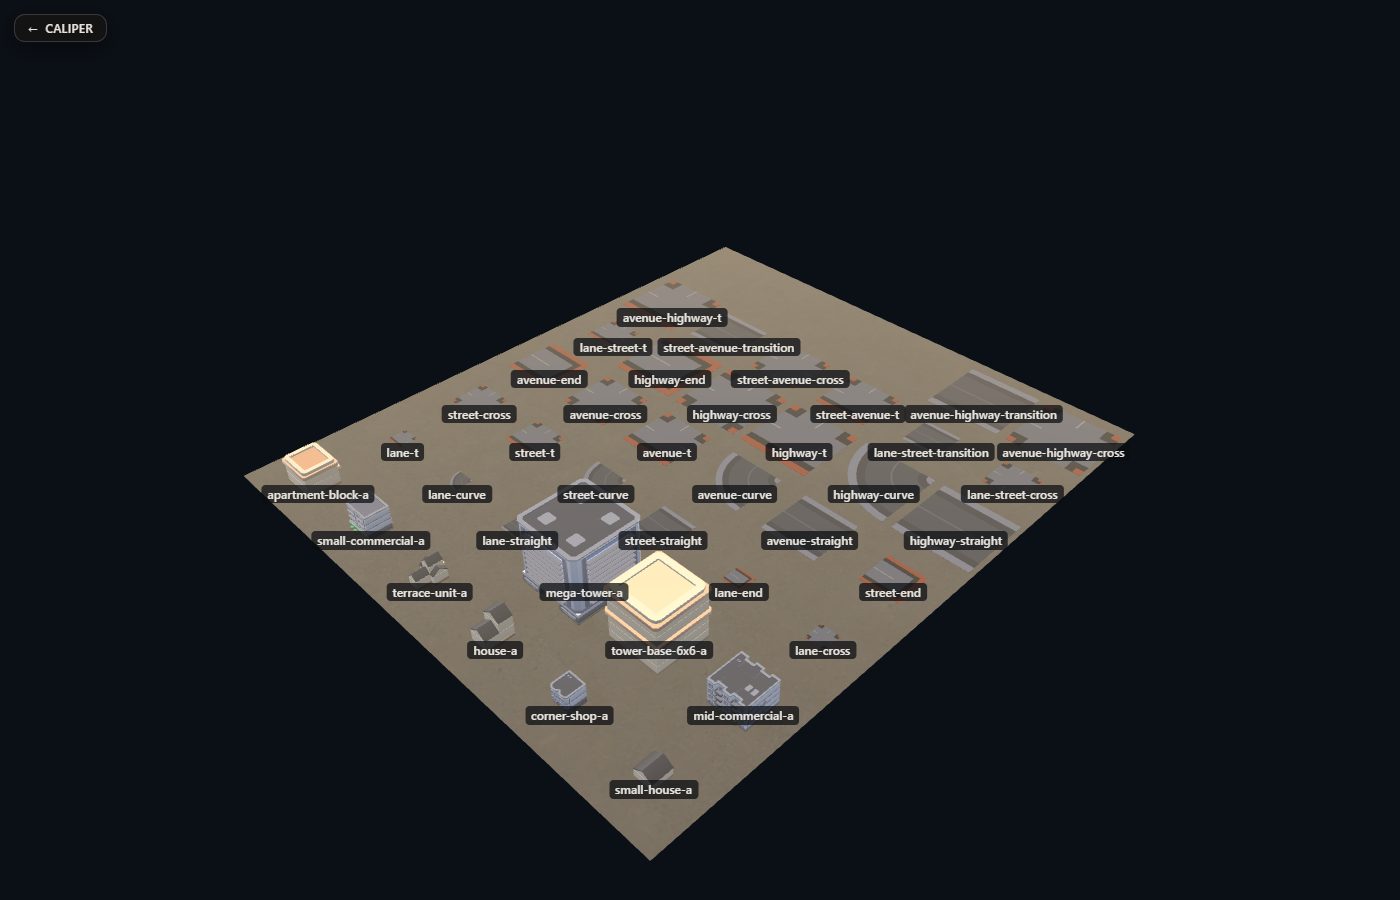
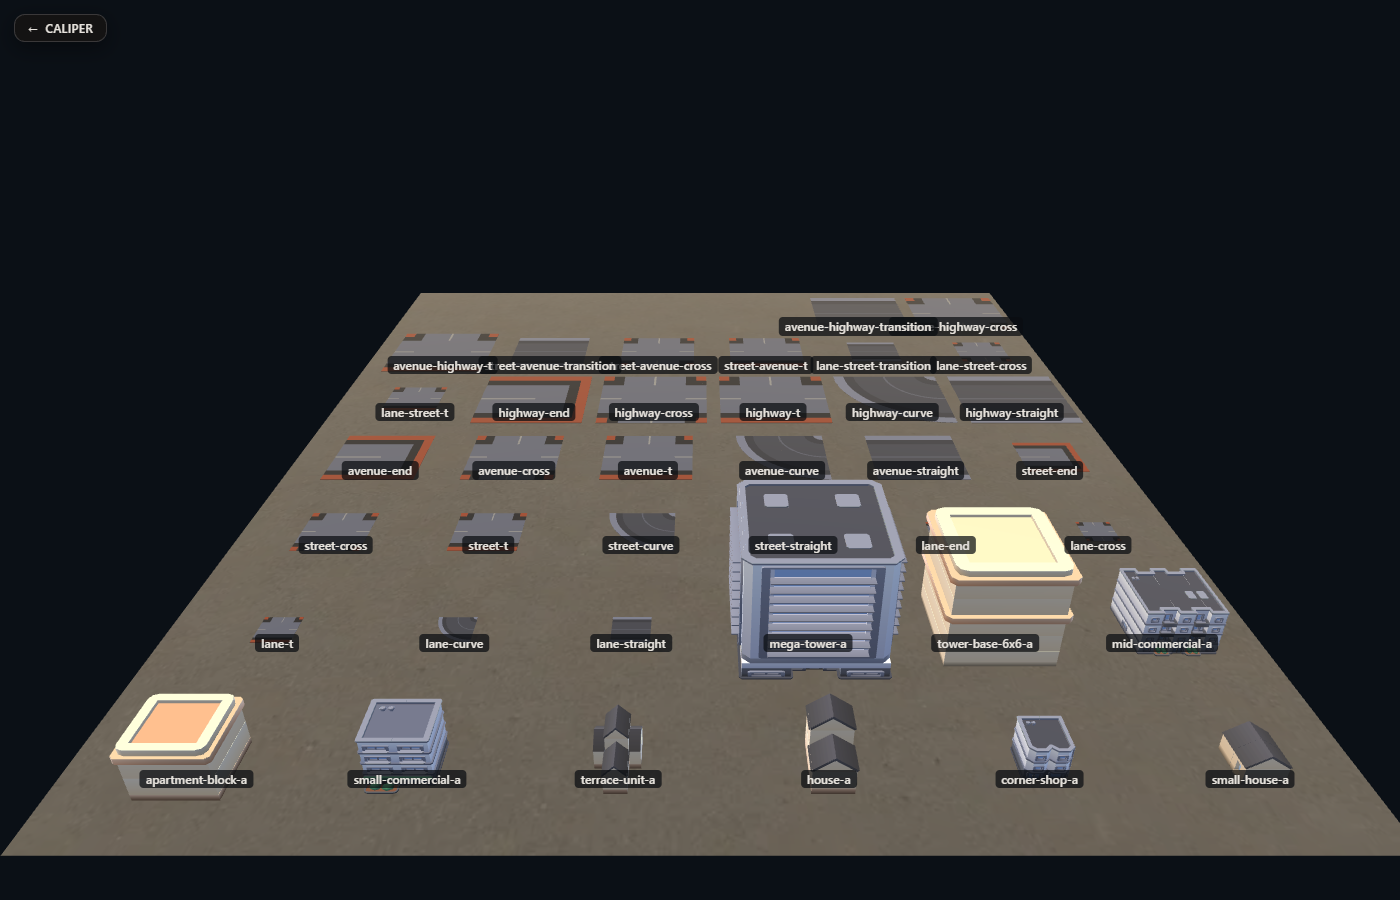
CAT-4: the contact sheet reads as a grid -- the camera angle was the defect, not the layout math.
WHAT WAS WRONG: docs/briefs/BLD-2026-09-16.md CAT-4 (PLAN.md 5.3,
CHECKLIST.md CAT-4): "put it on a grid rather than a diagonal strip in a
field of black... it already earned its keep: it is what made the scale
problem visible."

RE-GROUNDED BEFORE TOUCHING ANYTHING: read public/catalogue-contact-
sheet.html before assuming the grid needed rebuilding. It was already a
real grid -- `col = i % COLS, row = Math.floor(i / COLS)`, COLS=6, every
entry placed in a real row/column, no diagonal strip anywhere in the
layout math. The defect was the CAMERA: `camera.position.set(centerX -
dist, dist * 1.1, centerZ - dist)` offsets equally on BOTH x and z, a
45-degree isometric azimuth -- and a perspective camera at that angle
photographs any rectangular grid as a rotated DIAMOND, with the
viewport's own four corners left empty. That is exactly "a diagonal
strip in a field of black," produced by a real grid shot from the wrong
angle, not a fake grid.

THE FIX: camera offset on Z only now (x fixed at centerX), so grid rows
read as horizontal bands filling the frame's own width -- the diamond's
empty corners are gone. Elevation lowered from dist*1.1 to dist*0.55, a
real trade disclosed in the code comment: more top-down would fill the
frame even further but flattens height toward invisible, which is the
opposite of what this sheet needs once FIX-1 lands (the 6x height cap
removed) -- kept steep enough that a piece's own vertical extent still
reads.
[…]

diff --git a/public/catalogue-contact-sheet.html b/public/catalogue-contact-sheet.html
@@ -171,8 +171,23 @@ async function main() {
   // in this scene at all; pushed well past the real camera-to-farthest-
   // piece distance rather than tuned to a specific look.
   material.uniforms.uFogFar.value = dist * 4;
-  const camera = new THREE.PerspectiveCamera(45, window.innerWidth / window.innerHeight, 0.5, 1000);
-  camera.position.set(centerX - dist, dist * 1.1, centerZ - dist);
+  // CAT-4 (docs/briefs/BLD-2026-09-16.md) -- Mark on the previous camera
+  // (equal X AND Z offset from centre, a 45-degree isometric angle): "a
+  // diagonal strip in a field of black". A perspective camera at a 45-
+  // degree azimuth photographs a rectangular grid as a ROTATED DIAMOND --
+  // the grid math (col = i % COLS, row = Math.floor(i / COLS), unchanged
+  // by this item) was already real; what read wrong was the angle it was
+  // shot from. Offset on Z ONLY (x stays at centerX) so grid ROWS read as
+  // horizontal bands filling the frame's own width, the way a real
+  // contact sheet reads -- the diamond's four empty corners are gone.
+  // Elevation (dist * 0.55, lower than the old dist * 1.1) is a real
+  // trade, not free: MORE top-down would fill the frame even better but
+  // flattens height differences toward invisible (irrelevant to CAT-4's
+  // own grid ask, but height is exactly what this sheet needs to show
+  // once FIX-1 lands) -- kept steep enough that a piece's own vertical
+  // extent still reads, found by rendering and looking, not assumed.
+  const camera = new THREE.PerspectiveCamera(50, window.innerWidth / window.innerHeight, 0.5, 1000);
+  camera.position.set(centerX, dist * 0.55, centerZ - dist);
   camera.lookAt(centerX, 0, centerZ);
 
   renderer.render(scene, camera);

diff --git a/test/catalogueContactSheet.test.ts b/test/catalogueContactSheet.test.ts
@@ -38,6 +38,11 @@ test("RC4-pattern: fog is overridden for this camera's own real distance via a c
   assert.match(SCENE_SRC, /material\.uniforms\.uFogFar\.value = dist \* 4;/, "fog is not overridden for this scene's own camera distance -- pieces would render fogged into the ground's own tone, exactly the first real render's own defect");
 });
 
+test("GATE (CAT-4): the camera looks along ONE axis (front-on), not a 45-degree diagonal isometric offset -- CAT-2's own diagonal camera read as 'a diagonal strip in a field of black' (Mark, docs/briefs/BLD-2026-09-16.md), because an equal X/Z offset onto a rectangular grid photographs as a rotated diamond, not a grid", () => {
+  assert.doesNotMatch(SCENE_SRC, /camera\.position\.set\(centerX - dist,[^)]*centerZ - dist\)/, "the camera is still offset on BOTH x and z -- the rejected 45-degree diagonal isometric angle");
+  assert.match(SCENE_SRC, /camera\.position\.set\(centerX,/, "the camera's own x is not fixed at centerX -- rows would still read diagonally, not as horizontal bands");
+});
+
 test("(synthetic) the vulnerability: a comment mentioning boundEntries must not satisfy the checks above", () => {
   const commentOnly = stripSourceComments("// const boundEntries = catalogueArr.filter((e) => e.glb) used to be here\nconst m = {};\n");
   assert.doesNotMatch(commentOnly, /const boundEntries = catalogueArr\.filter\(\(e\) => e\.glb\)/, "a comment-only mention should not match the real-code pattern once comments are stripped");

diff --git a/docs/specs/CHECKLIST.md b/docs/specs/CHECKLIST.md
@@ -144,7 +144,9 @@ remains is implementation against answers already in hand.
     deciding how many. §C1.5 gives the real starting counts.
     Gate: the contact sheet shows genuine variety within each footprint class,
     and the draw count has not risen.
-[ ] CAT-4 (BLD) The contact sheet, on a grid — PLAN.md 5.3
+[x] CAT-4 (BLD) The contact sheet, on a grid — PLAN.md 5.3
+    DONE 2026-09-16: the grid MATH (col = i % COLS, row = Math.floor(i / COLS)) was already real -- the camera was the defect. A 45-degree isometric camera (equal X and Z offset from centre) photographs any rectangular grid as a rotated diamond; changed to offset on Z only (x fixed at centerX) so rows read as horizontal bands. node scripts/_mutcheck.mjs test/catalogueContactSheet.test.ts public/catalogue-contact-sheet.html test/mutations.json -- cat4-camera-must-stay-off-diagonal CAUGHT. node test/run.mjs test/catalogueContactSheet.test.ts: 5/5 pass. npx tsc --noEmit clean.
+    JUDGED BY MARK, own read offered first per this item's own instruction not to present a wall of thumbnails as a pass: docs/look-proof-shots/27-catalogue-contact-sheet.png. (1) mega-tower-a reads as the tallest piece on the sheet by a wide margin over tower-base-6x6-a beside it -- expected, not new: this is FIX-1's own still-open 6x cap, visible here rather than hidden, and should re-render taller once FIX-1/FIX-2 land, needing no further change to this camera. (2) apartment-block-a and small-commercial-a (bottom row) read visually similar to each other -- both grey/blue blocky masses at a glance; a real, if minor, "which is which" concern. (3) The top two rows (avenue-highway-t/cross/transition, street-avenue-t/cross/transition, lane-street-t/cross/transition) are visually cramped -- 6+ labels within a narrow band, two clipped mid-word ("eet-avenue-transition", "eet-avenue-cross") in this render. A real legibility gap, disclosed rather than silently left for Mark to discover; not fixed here (COLS/cellSize retuning risks a second round of the exact "found it, didn't fix it right" pattern this run is trying to avoid without a dedicated pass). (4) The three-shape reuse CAT-2 disclosed (road-intersection/road-crossroad/road-straight shared across footprint tiers) is visually mitigated by real scale difference between tiers, not eliminated -- e.g. street-t and lane-street-t are the same silhouette at different sizes, distinguishable mainly by size and label, a genuine remaining "variety within a footprint class" gap CAT-3's own commit already named and left open.
     Every bound piece, same ground, same camera, labelled, ON A GRID. The current
     sheet is a diagonal strip in a field of black.
     It has already earned its keep: it is what made the scale problem visible.
